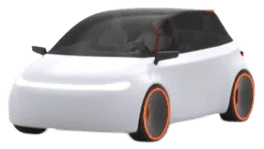
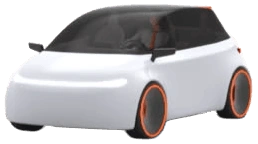
Transporte vira aba do menu de baixo; busca de marca na FIPE; carros recortados de novo
- A tela de transporte agora é uma página como Início, Gastos e Contas (fundo personalizado, mesmo cabeçalho)
- Busca de marca por nome com apelidos (GM, VW) e marcas mais comuns: Chevrolet aparece
- Carros com recorte limpo e tamanho contido (sem esticar a imagem)

diff --git a/src/telas/transporte.jsx b/src/telas/transporte.jsx
@@ -1,8 +1,6 @@
-// Parte do app carregada sob demanda: "Meu transporte" (abre ao tocar em Transporte, em Gastos).
+// Parte do app carregada sob demanda: aba "Transporte" do modo Pessoal (também abre ao tocar em Transporte, em Gastos).
 import React, { useEffect, useMemo, useRef, useState } from "react";
-import { createPortal } from "react-dom";
-import { I, Sheet, Field, Seg, Toggle, Money, brl, brlReal, num, soNumero, fmtNum, uid, todayISO, MES_LONGO, pad, dm, relativo, vibrar, Ilustra, lerArquivo, servidorAvisos, useCamada, ConfirmButton } from "../App.jsx";
-import { TetoSheet } from "./pessoal.jsx";
+import { I, Sheet, Field, Seg, Toggle, Money, brl, brlReal, num, soNumero, fmtNum, uid, todayISO, MES_LONGO, pad, dm, relativo, vibrar, Ilustra, lerArquivo, servidorAvisos, ConfirmButton, TopBar } from "../App.jsx";
 import { SUBS, subInfo, subDe, MANUTENCOES, FOTOS, COMBUSTIVEIS, gastosTransporte, estatisticasCombustivel, kmAtual, proximaTrocaOleo, precosCombustivel, etanolOuGasolina, fipe } from "../transporte.js";
 
 /* ---------- ícones ---------- */
@@ -40,18 +38,14 @@ function FotoVeiculo({ v, grande }) {
   const cls = "transp-foto" + (grande ? " grande" : "");
   if (v && v.foto && v.foto.startsWith("data:")) return <img className={cls + " propria"} src={v.foto} alt="Seu veículo" />;
   const f = FOTOS.find(x => x[0] === (v && v.foto)) || (!v || v.tipo === "carro" || !v.tipo ? FOTOS[0] : null);
-  if (f) return <Ilustra n={f[2]} className={cls} alt={f[1]} />;
+  if (f) return <Ilustra n={f[2]} className={cls + " f-" + f[0]} alt={f[1]} />;
   return <span className={cls + " emoji"} aria-hidden="true">{EMOJI[v.tipo] || "🚗"}</span>;
 }
 
-export function TransportePage({ db, act, perfil, onClose }) {
+export function TransporteTab({ db, act, tema, perfil }) {
   const v = (db.pessoal && db.pessoal.veiculo) || null;
   const [off, setOff] = useState(0);
   const [filtro, setFiltro] = useState(null);
-  const [folha, setFolha] = useState(null); // { tipo: "gasto" | "veiculo" | "teto", ... }
-  const folhaRef = useRef(folha); folhaRef.current = folha;
-  // voltar do Android: fecha a janela de dentro; sem janela, fecha a tela
-  useCamada(() => { if (folhaRef.current) { setFolha(null); return false; } onClose(); }, { escurece: false });
   const hoje = todayISO();
   const mes = mesDe(off), g = useMemo(() => gastosTransporte(db, mes.chave), [db, mes.chave]);
   const ant = useMemo(() => gastosTransporte(db, mesDe(off - 1).chave), [db, off]);
@@ -84,16 +78,13 @@ export function TransportePage({ db, act, perfil, onClose }) {
   const lista = g.itens.filter(i => !filtro || i.sub === filtro);
   const delta = ant.total > 0 ? (g.total - ant.total) / ant.total : null;
   const nome = (v && v.nome) || (v && v.fipe && v.fipe.modelo) || (v && v.tipo === "nenhum" ? "Apps e transporte público" : "Seu veículo");
-  const salvar = l => { act.salvarLanc(l); setFolha(null); };
 
-  return createPortal(
-    <div className="transp" role="dialog" aria-modal="true" aria-label="Meu transporte">
-      <div className="transp-in">
-        <header className="transp-topo">
-          <button className="icon-btn" onClick={onClose} aria-label="Voltar"><I.chevL /></button>
-          <b>Meu transporte</b>
-          <button className="icon-btn" onClick={() => setFolha({ tipo: "veiculo" })} aria-label="Editar o veículo"><I.pencil /></button>
-        </header>
+  return (
+    <div className="page transp">
+      <TopBar eyebrow={nome} title="Transporte" act={act} tema={tema}
+        extra={<button className="icon-btn" onClick={() => act.abrirVeiculo()} aria-label="Editar o veículo"><I.pencil /></button>} />
+      <div className="cols">
+        <div className="col">
 
         <section className="transp-hero">
           <div className="transp-palco"><i className="transp-luz" aria-hidden="true" /><FotoVeiculo v={v} grande /><i className="transp-chao" aria-hidden="true" /></div>
@@ -104,7 +95,7 @@ export function TransportePage({ db, act, perfil, onClose }) {
             {km && <span>{km.toLocaleString("pt-BR")} km</span>}
             {v && v.fipe && v.fipe.valor && <span>FIPE {v.fipe.valor}</span>}
           </div>
-          {!v && <button className="btn ghost transp-escolher" onClick={() => setFolha({ tipo: "veiculo" })}><I.car /> Escolher o meu veículo</button>}
+          {!v && <button className="btn ghost transp-escolher" onClick={() => act.abrirVeiculo()}><I.car /> Escolher o meu veículo</button>}
         </section>
 
         <section className="transp-card transp-mes">
@@ -126,9 +117,9 @@ export function TransportePage({ db, act, perfil, onClose }) {
         </section>
 
         <div className="transp-acoes">
-          {temCarro && <button onClick={() => setFolha({ tipo: "gasto", sub: "combustivel" })}><span className="ic" style={{ "--c": subInfo("combustivel").cor }}><Ic.combustivel /></span>Abastecer</button>}
-          {temCarro && <button onClick={() => setFolha({ tipo: "gasto", sub: "manutencao" })}><span className="ic" style={{ "--c": subInfo("manutencao").cor }}><Ic.manutencao /></span>Manutenção</button>}
-          <button onClick={() => setFolha({ tipo: "gasto", sub: temCarro ? "estacionamento" : "app" })}><span className="ic" style={{ "--c": "var(--mode)" }}><I.plus /></span>Outro gasto</button>
+          {temCarro && <button onClick={() => act.abrirGastoTransp({ sub: "combustivel" })}><span className="ic" style={{ "--c": subInfo("combustivel").cor }}><Ic.combustivel /></span>Abastecer</button>}
+          {temCarro && <button onClick={() => act.abrirGastoTransp({ sub: "manutencao" })}><span className="ic" style={{ "--c": subInfo("manutencao").cor }}><Ic.manutencao /></span>Manutenção</button>}
+          <button onClick={() => act.abrirGastoTransp({ sub: temCarro ? "estacionamento" : "app" })}><span className="ic" style={{ "--c": "var(--mode)" }}><I.plus /></span>Outro gasto</button>
         </div>
 
         {subsMes.length > 0 && (
@@ -142,6 +133,8 @@ export function TransportePage({ db, act, perfil, onClose }) {
           </section>
         )}
 
+        </div>
+        <div className="col">
         {temCarro && (
           <section className="transp-card">
             <div className="transp-card-cab"><span className="ic" style={{ "--c": subInfo("combustivel").cor }}><Ic.combustivel /></span><h3>Combustível</h3></div>
@@ -177,7 +170,7 @@ export function TransportePage({ db, act, perfil, onClose }) {
               </div>
             ) : <p className="hint">Anote a última troca de óleo (em Manutenção) e eu aviso quando chegar a próxima.</p>}
             {manut.slice(0, 4).map(l => (
-              <button key={l.id} className="transp-item" onClick={() => setFolha({ tipo: "gasto", inicial: l })}>
+              <button key={l.id} className="transp-item" onClick={() => act.abrirGastoTransp({ inicial: l })}>
                 <span className="ic" style={{ "--c": subInfo(subDe(l)).cor }}><IconeSub id={subDe(l)} /></span>
                 <span className="mid"><b>{l.desc || subInfo(subDe(l)).nome}</b><small>{relativo(l.data)}{l.km ? ` · ${l.km.toLocaleString("pt-BR")} km` : ""}</small></span>
                 <span className="amt">−<Money v={l.valor} /></span>
@@ -203,26 +196,22 @@ export function TransportePage({ db, act, perfil, onClose }) {
           <div className="transp-card-cab"><h3>{filtro ? subInfo(filtro).nome : "Gastos do mês"}</h3>{filtro && <button className="link" onClick={() => setFiltro(null)}>Ver todos</button>}</div>
           {lista.length === 0 && <div className="empty">{filtro ? "Nada nesta categoria no mês." : "Nenhum gasto com transporte neste mês."}</div>}
           {lista.map(l => (
-            <button key={l.id} className="transp-item" disabled={l.conta} onClick={() => !l.conta && setFolha({ tipo: "gasto", inicial: l })}>
+            <button key={l.id} className="transp-item" disabled={l.conta} onClick={() => !l.conta && act.abrirGastoTransp({ inicial: l })}>
               <span className="ic" style={{ "--c": subInfo(l.sub).cor }}><IconeSub id={l.sub} /></span>
               <span className="mid"><b>{l.desc || subInfo(l.sub).nome}</b><small>{subInfo(l.sub).nome} · {relativo(l.data).toLowerCase()}{l.litros ? ` · ${fmtNum(l.litros)} L` : ""}{l.conta ? " · conta fixa" : ""}</small></span>
               <span className="amt">−<Money v={l.valor} /></span>
             </button>
           ))}
-          <button className="link transp-teto" onClick={() => setFolha({ tipo: "teto" })}><I.gauge /> Teto de gastos com transporte</button>
+          <button className="link transp-teto" onClick={() => act.abrirTeto("transporte")}><I.gauge /> Teto de gastos com transporte</button>
         </section>
+        </div>
       </div>
-
-      {folha && folha.tipo === "gasto" && <GastoTransporteSheet sub0={folha.sub} inicial={folha.inicial} veiculo={v} precos={ref && ref.p} onSave={salvar} onDelete={id => { act.apagarLanc(id); setFolha(null); }} onClose={() => setFolha(null)} />}
-      {folha && folha.tipo === "veiculo" && <VeiculoSheet veiculo={v} km={km} onSave={nv => { act.salvarVeiculo(nv); setFolha(null); }} onClose={() => setFolha(null)} />}
-      {folha && folha.tipo === "teto" && <TetoSheet db={db} cat="transporte" act={{ ...act, salvarTeto: (c, valor) => { act.salvarTeto(c, valor); setFolha(null); } }} onClose={() => setFolha(null)} />}
-    </div>,
-    document.body
+    </div>
   );
 }
 
 /* ---------- Abastecer, manutenção e outros gastos ---------- */
-function GastoTransporteSheet({ sub0, inicial, veiculo, precos, onSave, onDelete, onClose }) {
+export function GastoTransporteSheet({ sub0, inicial, veiculo, precos, onSave, onDelete, onClose }) {
   const [sub, setSub] = useState(inicial ? subDe(inicial) : sub0 || "combustivel");
   const [valor, setValor] = useState(inicial ? fmtNum(inicial.valor) : "");
   const [litros, setLitros] = useState(inicial && inicial.litros ? fmtNum(inicial.litros) : "");
@@ -292,7 +281,8 @@ async function fotoDoCarro(file) {
   c.getContext("2d").drawImage(img, 0, 0, c.width, c.height);
   return c.toDataURL("image/jpeg", .82);
 }
-function VeiculoSheet({ veiculo, km: km0, onSave, onClose }) {
+export function VeiculoSheet({ veiculo, db, onSave, onClose }) {
+  const km0 = kmAtual(db, veiculo);
   const v0 = veiculo || {};
   const [tipo, setTipo] = useState(v0.tipo || "carro");
   const [foto, setFoto] = useState(v0.foto || "sedan");
@@ -348,26 +338,43 @@ function VeiculoSheet({ veiculo, km: km0, onSave, onClose }) {
 }
 
 // Tabela FIPE (opcional): marca -> modelo -> ano -> valor
+// nomes como as pessoas falam ("Chevrolet", e não "GM - Chevrolet"), apelidos e as marcas mais comuns primeiro
+const nomeMarca = n => n.replace(/^GM - Chevrolet$/i, "Chevrolet").replace(/^VW - VolksWagen$/i, "Volkswagen").replace(/^(GM|VW) - /i, "");
+const simples = s => String(s || "").toLowerCase().normalize("NFD").replace(/[̀-ͯ]/g, "").trim();
+const APELIDOS_MARCA = { gm: "chevrolet", chevy: "chevrolet", vw: "volkswagen", volks: "volkswagen", wolks: "volkswagen", mercedes: "mercedes", citroen: "citroen", chery: "chery" };
+const POPULARES = ["chevrolet", "fiat", "volkswagen", "ford", "toyota", "hyundai", "renault", "honda", "jeep", "nissan", "peugeot", "citroen", "byd", "caoa chery", "yamaha", "kawasaki", "suzuki", "bmw"];
 function BuscaFipe({ tipo, valor, onEscolher }) {
+  const [qMarca, setQMarca] = useState(""), [marcaNome, setMarcaNome] = useState("");
   const [aberto, setAberto] = useState(false);
   const [marcas, setMarcas] = useState([]), [modelos, setModelos] = useState([]), [anos, setAnos] = useState([]);
   const [marca, setMarca] = useState(""), [modelo, setModelo] = useState(""), [busca, setBusca] = useState("");
   const [st, setSt] = useState("");
   useEffect(() => { if (!aberto || marcas.length) return; setSt("carregando"); fipe.marcas(tipo).then(m => { setMarcas(m); setSt(""); }).catch(() => setSt("erro")); }, [aberto, tipo]);
-  const escolherMarca = id => { setMarca(id); setModelo(""); setAnos([]); setModelos([]); if (!id) return; setSt("carregando"); fipe.modelos(tipo, id).then(m => { setModelos(m); setSt(""); }).catch(() => setSt("erro")); };
+  const escolherMarca = (id, nome) => { setMarca(id); setMarcaNome(nome || ""); setBusca(""); setModelo(""); setAnos([]); setModelos([]); if (!id) return; setSt("carregando"); fipe.modelos(tipo, id).then(m => { setModelos(m); setSt(""); }).catch(() => setSt("erro")); };
   const escolherModelo = id => { setModelo(id); setAnos([]); if (!id) return; setSt("carregando"); fipe.anos(tipo, marca, id).then(a => { setAnos(a); setSt(""); }).catch(() => setSt("erro")); };
   const escolherAno = id => { if (!id) return; setSt("carregando"); fipe.valor(tipo, marca, modelo, id).then(r => { onEscolher({ marca: r.Marca, modelo: r.Modelo, ano: r.AnoModelo === 32000 ? "Zero km" : r.AnoModelo, combustivel: r.Combustivel, valor: r.Valor, mes: r.MesReferencia, codigo: r.CodigoFipe }); setSt(""); setAberto(false); vibrar("ok"); }).catch(() => setSt("erro")); };
+  const q = simples(qMarca), qAlvo = APELIDOS_MARCA[q] || q;
+  const listaMarcas = q
+    ? marcas.filter(m => simples(nomeMarca(m.nome)).includes(qAlvo) || simples(m.nome).includes(q)).slice(0, 14)
+    : POPULARES.map(p => marcas.find(m => simples(nomeMarca(m.nome)) === p)).filter(Boolean).slice(0, 12);
   const filtrados = busca.trim() ? modelos.filter(m => m.nome.toLowerCase().includes(busca.trim().toLowerCase())) : modelos;
   if (!aberto) return (
     <div className="transp-fipe">
-      {valor ? <div><small>Tabela FIPE · {valor.mes}</small><b>{valor.valor}</b><span>{valor.marca} {valor.modelo} · {valor.ano}</span></div> : <span className="hint" style={{ padding: 0 }}>Quanto vale o seu {tipo === "motos" ? "moto" : "carro"}? Puxe da Tabela FIPE (opcional).</span>}
+      {valor ? <div><small>Tabela FIPE · {valor.mes}</small><b>{valor.valor}</b><span>{nomeMarca(valor.marca || "")} {valor.modelo} · {valor.ano}</span></div> : <span className="hint" style={{ padding: 0 }}>Quanto vale o seu {tipo === "motos" ? "moto" : "carro"}? Puxe da Tabela FIPE (opcional).</span>}
       <button type="button" className="pill-btn" onClick={() => setAberto(true)}>{valor ? "Trocar" : "Buscar na FIPE"}</button>
       {valor && <button type="button" className="link" onClick={() => onEscolher(null)}>Tirar</button>}
     </div>
   );
   return (
     <div className="transp-fipe aberto">
-      <select value={marca} onChange={e => escolherMarca(e.target.value)} aria-label="Marca"><option value="">Marca…</option>{marcas.map(m => <option key={m.codigo} value={m.codigo}>{m.nome}</option>)}</select>
+      {!marca ? <>
+        <input value={qMarca} onChange={e => setQMarca(e.target.value)} placeholder="Marca (ex.: Chevrolet, Fiat, VW)" aria-label="Buscar a marca" autoComplete="off" />
+        <div className="fipe-marcas">
+          {!q && marcas.length > 0 && <small>Mais comuns</small>}
+          {listaMarcas.map(m => <button key={m.codigo} type="button" onClick={() => escolherMarca(m.codigo, nomeMarca(m.nome))}>{nomeMarca(m.nome)}</button>)}
+          {q && marcas.length > 0 && !listaMarcas.length && <span className="hint" style={{ padding: 0 }}>Nenhuma marca com esse nome.</span>}
+        </div>
+      </> : <div className="fipe-escolhida"><b>{marcaNome}</b><button type="button" className="link" onClick={() => escolherMarca("")}>Trocar marca</button></div>}
       {marca && <input value={busca} onChange={e => setBusca(e.target.value)} placeholder="Filtrar o modelo (ex.: onix 1.0)" aria-label="Filtrar modelo" />}
       {marca && <select value={modelo} onChange={e => escolherModelo(e.target.value)} aria-label="Modelo"><option value="">{modelos.length ? `Modelo… (${filtrados.length})` : "Carregando…"}</option>{filtrados.slice(0, 400).map(m => <option key={m.codigo} value={m.codigo}>{m.nome}</option>)}</select>}
       {modelo && <select defaultValue="" onChange={e => escolherAno(e.target.value)} aria-label="Ano"><option value="">{anos.length ? "Ano…" : "Carregando…"}</option>{anos.map(a => <option key={a.codigo} value={a.codigo}>{a.nome.replace(/^32000/, "Zero km")}</option>)}</select>}

diff --git a/src/App.jsx b/src/App.jsx
@@ -15,6 +15,7 @@ import { NUVEM, ENDERECO_APP, cliente, useNuvem, contaDaNuvem, enviarPerfil, sai
 import { lerBoleto } from "./boleto.js";
 import { avaliarConquistas, proximaConquista, nivelDe, TRILHAS } from "./conquistas.js";
 import { AVATARES, ehAvatarPronto } from "./avatares.js";
+import { precosGuardados } from "./transporte.js";
 import { createPortal, flushSync } from "react-dom";
 
 // Caminho base do app (no GitHub Pages é /nome-do-repositorio/)
@@ -159,7 +160,7 @@ const comTransicao = (fn, tipo = "frente") => {
   } catch (e) {}
   fn();
 };
-const ORDEM_ABAS = ["home", "agenda", "pac", "fin", "p-home", "p-gastos", "p-contas"];
+const ORDEM_ABAS = ["home", "agenda", "pac", "fin", "p-home", "p-gastos", "p-contas", "p-transp"];
 const brlReal = v => (Number(v) || 0).toLocaleString("pt-BR", { style: "currency", currency: "BRL" });
 const brl = v => ESCONDER ? "R$ •••" : brlReal(v);
 const num = v => { let s = String(v).trim(); if (s.includes(",")) s = s.replace(/\./g, "").replace(",", "."); const n = parseFloat(s); return isNaN(n) ? 0 : n; };
@@ -1462,6 +1463,7 @@ const I = {
   bill: () => <Svg><rect x="4" y="3" width="16" height="18" rx="3"/><path d="M8 8h8M8 12h8M8 16h4"/></Svg>,
   cart: () => <Svg><path d="M3 4h2.5l2.2 10.5h10.6L20.5 7H7"/><circle cx="9.5" cy="19" r="1.5"/><circle cx="17" cy="19" r="1.5"/></Svg>,
   car: () => <Svg><path d="M4 16v-4l2-5h12l2 5v4M4 16h16M4 16v2.5M20 16v2.5"/><circle cx="7.5" cy="13.5" r=".8"/><circle cx="16.5" cy="13.5" r=".8"/></Svg>,
+  carOn: () => <Svg><path fill="currentColor" stroke="none" fillRule="evenodd" d="M6.9 5.5h10.2a1.5 1.5 0 0 1 1.4.94l1.9 4.76c.4.36.6.86.6 1.4V17a1 1 0 0 1-1 1h-.5v1.2a1 1 0 0 1-2 0V18H6.5v1.2a1 1 0 0 1-2 0V18H4a1 1 0 0 1-1-1v-4.4c0-.54.2-1.04.6-1.4L5.5 6.44a1.5 1.5 0 0 1 1.4-.94zM6.2 10.5h11.6l-1.3-3.2H7.5zM7.5 15.2a1.3 1.3 0 1 0 0-2.6 1.3 1.3 0 0 0 0 2.6zm9 0a1.3 1.3 0 1 0 0-2.6 1.3 1.3 0 0 0 0 2.6z"/></Svg>,
   food: () => <Svg><path d="M7 3v8M5 3v5a2 2 0 0 0 4 0V3M7 11v10M16 21V3c-2 1-3.5 3.5-3.5 7h3.5"/></Svg>,
   heart: () => <Svg><path d="M12 20s-7.5-4.5-7.5-10A4.3 4.3 0 0 1 12 7.5 4.3 4.3 0 0 1 19.5 10C19.5 15.5 12 20 12 20z"/></Svg>,
   star: () => <Svg><path d="M12 3.5l2.6 5.4 5.9.8-4.3 4.1 1 5.8L12 16.9l-5.2 2.7 1-5.8-4.3-4.1 5.9-.8z"/></Svg>,
@@ -3254,7 +3256,9 @@ const LancSheet = lazy(() => import("./telas/pessoal.jsx").then(m => ({ default:
 const ContaSheet = lazy(() => import("./telas/pessoal.jsx").then(m => ({ default: m.ContaSheet })));
 const CaixinhaSheet = lazy(() => import("./telas/dinheiro.jsx").then(m => ({ default: m.CaixinhaSheet })));
 const TetoSheet = lazy(() => import("./telas/pessoal.jsx").then(m => ({ default: m.TetoSheet })));
-const TransportePage = lazy(() => import("./telas/transporte.jsx").then(m => ({ default: m.TransportePage })));
+const TransporteTab = lazy(() => import("./telas/transporte.jsx").then(m => ({ default: m.TransporteTab })));
+const GastoTransporteSheet = lazy(() => import("./telas/transporte.jsx").then(m => ({ default: m.GastoTransporteSheet })));
+const VeiculoSheet = lazy(() => import("./telas/transporte.jsx").then(m => ({ default: m.VeiculoSheet })));
 const BoletoSheet = lazy(() => import("./telas/ferramentas.jsx").then(m => ({ default: m.BoletoSheet })));
 const ImportarSheet = lazy(() => import("./telas/ferramentas.jsx").then(m => ({ default: m.ImportarSheet })));
 const ParceladoSheet = lazy(() => import("./telas/dinheiro.jsx").then(m => ({ default: m.ParceladoSheet })));
@@ -3601,7 +3605,6 @@ function Painel({ conta, novo, pronto, tema, onSair, onAtualizar, onPerfilNuvem 
   // Conquistas: calculadas a partir dos dados; as novas ganham comemoração (uma de cada vez)
   const conquistas = useMemo(() => avaliarConquistas(db, ajudaConquistas(), { perfil, usaPessoal, instalado: appInstalado(), push, nuvem: !!conta.uid, av }), [db, push, perfil, usaPessoal, conta.uid, av.nomes]);
   const [festa, setFesta] = useState([]);
-  const [transp, setTransp] = useState(false); // tela "Meu transporte"
   // Barra de cima que aparece quando a página rola
   const [rolou, setRolou] = useState(false);
   // A barra de baixo fica sempre parada no lugar; só a de cima reage à rolagem
@@ -3867,8 +3870,11 @@ function Painel({ conta, novo, pronto, tema, onSair, onAtualizar, onPerfilNuvem 
     toast: m => notify(m),
     conquistas,
     abrirClima: () => setSheet({ type: "clima" }),
-    abrirTransporte: () => { if (sheet) close(); setTransp(true); },
-    salvarVeiculo: v => { setP(P => ({ ...P, veiculo: v })); vibrar("ok"); notify(v.tipo === "nenhum" ? "Pronto: sem veículo, foco nos apps e no transporte público" : `${v.nome || "Veículo"} salvo`); },
+    // Transporte é uma aba do modo Pessoal; os painéis dela abrem como os outros
+    abrirTransporte: () => { if (sheet) close(); if (modo !== "pessoal") { setModoSt("pessoal"); gravar(K.modo(conta.email), "pessoal"); } setTab("p-transp"); rolarTopo(); },
+    abrirGastoTransp: ({ sub, inicial } = {}) => setSheet({ type: "transp-gasto", sub, inicial, n: Date.now() }),
+    abrirVeiculo: () => setSheet({ type: "veiculo" }),
+    salvarVeiculo: v => { setP(P => ({ ...P, veiculo: v })); close(); vibrar("ok"); notify(v.tipo === "nenhum" ? "Pronto: sem veículo, foco nos apps e no transporte público" : `${v.nome || "Veículo"} salvo`); },
     abrirChat: () => { if (sheet) close(); vozApi.current.chat && vozApi.current.chat(); },
     recarregarClima: () => carregarClima(true),
     setTab: t => { if (t === tab) return rolarTopo(); comTransicao(() => { setTab(t); rolarTopo(); }, ORDEM_ABAS.indexOf(t) < ORDEM_ABAS.indexOf(tab) ? "tras" : "frente"); },
@@ -4104,7 +4110,7 @@ function Painel({ conta, novo, pronto, tema, onSair, onAtualizar, onPerfilNuvem 
   const modoEf = usaPessoal ? modo : "consultorio";
   const tabEf = !usaPessoal && tab.startsWith("p-") ? "home" : tab;
   const abas = modoEf === "pessoal"
-    ? [{ id: "p-home", l: "Início", ic: <I.home />, on: <I.homeOn />, n: 0 }, { id: "p-gastos", l: "Gastos", ic: <I.chart />, on: <I.chartOn />, n: 0 }, { id: "p-contas", l: "Contas", ic: <I.bill />, on: <I.billOn />, n: contasUrg }]
+    ? [{ id: "p-home", l: "Início", ic: <I.home />, on: <I.homeOn />, n: 0 }, { id: "p-gastos", l: "Gastos", ic: <I.chart />, on: <I.chartOn />, n: 0 }, { id: "p-contas", l: "Contas", ic: <I.bill />, on: <I.billOn />, n: contasUrg }, { id: "p-transp", l: "Transporte", ic: <I.car />, on: <I.carOn />, n: 0 }]
     : [{ id: "home", l: "Início", ic: <I.home />, on: <I.homeOn />, n: atrasados }, { id: "agenda", l: "Agenda", ic: <I.cal />, on: <I.calOn />, n: 0 }, { id: "pac", l: TERMO.P, ic: <I.users />, on: <I.usersOn />, n: 0 }, { id: "fin", l: "Finanças", ic: <I.wallet />, on: <I.walletOn />, n: pendentes }];
   const lancSel = sheet && sheet.type === "lanc" && sheet.id ? db.pessoal.lanc.find(l => l.id === sheet.id) : null;
   const contaSel = sheet && sheet.type === "conta" && sheet.id ? db.pessoal.contas.find(c => c.id === sheet.id) : null;
@@ -4123,6 +4129,8 @@ function Painel({ conta, novo, pronto, tema, onSair, onAtualizar, onPerfilNuvem 
       {sheet && sheet.type === "registros" && <Suspense fallback={null}><RegistrosSheet db={db} onClose={close} act={act} /></Suspense>}
       {sheet && sheet.type === "espera" && <EsperaSheet key={sheet.id || "nova"} inicial={sheet.id ? db.espera.find(e => e.id === sheet.id) : null} onSave={act.salvarEspera} onDelete={act.tirarEspera} onClose={close} />}
       {sheet && sheet.type === "lanc" && <Suspense fallback={null}><LancSheet key={sheet.id || sheet.tipo + (sheet.n || "")} inicial={lancSel} pre={sheet.pre} tipo={sheet.tipo || "saida"} viagem={db.pessoal.viagem} onLogo={act.salvarLogo} onVoz={act.falarGasto} onFoto={servidorAvisos() ? act.lerComprovante : null} onSave={act.salvarLanc} onDelete={act.apagarLanc} onClose={close} /></Suspense>}
+      {sheet && sheet.type === "transp-gasto" && <Suspense fallback={null}><GastoTransporteSheet key={sheet.n} sub0={sheet.sub} inicial={sheet.inicial} veiculo={db.pessoal.veiculo || null} precos={precosGuardados()} onSave={act.salvarLanc} onDelete={act.apagarLanc} onClose={close} /></Suspense>}
+      {sheet && sheet.type === "veiculo" && <Suspense fallback={null}><VeiculoSheet veiculo={db.pessoal.veiculo || null} db={db} onSave={act.salvarVeiculo} onClose={close} /></Suspense>}
       {sheet && sheet.type === "clima" && <ClimaSheet clima={clima} cidade={perfil.cidade} act={act} onClose={close} />}
       {sheet && sheet.type === "teto" && <Suspense fallback={null}><TetoSheet key={sheet.cat || "teto"} db={db} cat={sheet.cat} act={act} onClose={close} /></Suspense>}
       {sheet && sheet.type === "boleto" && <Suspense fallback={null}><BoletoSheet key={sheet.n || "boleto"} texto={sheet.texto} act={act} onClose={close} /></Suspense>}
@@ -4186,6 +4194,7 @@ function Painel({ conta, novo, pronto, tema, onSair, onAtualizar, onPerfilNuvem 
         {tabEf === "p-home" && <Suspense fallback={null}><PessoalHome db={db} conta={conta} now={now} act={act} tema={tema} /></Suspense>}
         {tabEf === "p-gastos" && <Suspense fallback={null}><GastosTab db={db} act={act} tema={tema} /></Suspense>}
         {tabEf === "p-contas" && <Suspense fallback={null}><ContasTab db={db} act={act} tema={tema} /></Suspense>}
+        {tabEf === "p-transp" && <Suspense fallback={null}><TransporteTab db={db} act={act} tema={tema} perfil={perfil} /></Suspense>}
       </main>
 
       <div className={"topo-fixo" + (rolou && !sheet ? " on" : "")} aria-hidden={!(rolou && !sheet)} inert={rolou && !sheet ? undefined : ""}>
@@ -4218,7 +4227,6 @@ function Painel({ conta, novo, pronto, tema, onSair, onAtualizar, onPerfilNuvem 
 
       {paineis}
       {foco && <Agora db={db} conta={conta} now={now} onClose={() => setFoco(false)} act={act} />}
-      {transp && usaPessoal && <Suspense fallback={null}><TransportePage db={db} act={act} perfil={perfil} onClose={() => setTransp(false)} /></Suspense>}
 
       {toast && (
         <div className={"toast" + (toast.undo ? "" : " solo")} role="status">

diff --git a/src/styles.css b/src/styles.css
@@ -1661,20 +1661,18 @@ body::after { content: ""; position: fixed; left: 0; right: 0; top: 0; height: e
 .topo-fixo .icon-btn.redondo svg { color: #fff; stroke: currentColor; }
 
 /* ---------- Meu transporte ---------- */
-.transp { position: fixed; inset: 0; z-index: 50; overflow-y: auto; overscroll-behavior: contain; background-color: var(--bg); background-image: radial-gradient(120% 50% at 50% 0%, color-mix(in srgb, var(--mode) 16%, var(--bg)), var(--bg) 70%); color: var(--fg); animation: chat-entra .4s cubic-bezier(.16, 1, .3, 1); }
-.transp .scrim { z-index: 60; }
-.transp-in { max-width: 560px; margin: 0 auto; display: flex; flex-direction: column; gap: 14px; padding: 0 max(16px, env(safe-area-inset-right, 0px)) calc(32px + env(safe-area-inset-bottom, 0px)) max(16px, env(safe-area-inset-left, 0px)); }
-.transp-topo { position: sticky; top: 0; z-index: 3; display: grid; grid-template-columns: 44px 1fr 44px; align-items: center; gap: 8px; margin: 0 -16px; padding: calc(10px + env(safe-area-inset-top, 0px)) 16px 10px; background: color-mix(in srgb, var(--bg) 86%, transparent); -webkit-backdrop-filter: blur(16px); backdrop-filter: blur(16px); }
-.transp-topo b { text-align: center; font-family: var(--f-display); font-weight: 600; font-size: 17px; }
 .transp-hero { display: flex; flex-direction: column; align-items: center; text-align: center; gap: 6px; }
-.transp-palco { position: relative; width: 100%; height: 190px; display: grid; place-items: center; }
-.transp-palco.mini { height: 140px; }
+.transp-palco { position: relative; width: 100%; height: 150px; display: grid; place-items: center; }
+.transp-palco.mini { height: 120px; }
 .transp-luz { position: absolute; width: 70%; height: 80%; border-radius: 50%; background: radial-gradient(circle, color-mix(in srgb, var(--mode) 40%, transparent), transparent 65%); filter: blur(10px); }
 .transp-foto { position: relative; z-index: 1; display: block; max-width: 86%; max-height: 100%; object-fit: contain; filter: drop-shadow(0 18px 24px rgba(0, 0, 0, .35)); animation: carro-anda 6s ease-in-out infinite; }
-.transp-foto.grande { width: 330px; }
-.transp-palco.mini .transp-foto.grande { width: 240px; }
+.transp-foto.grande { width: min(250px, 72%); }
+/* o compacto veio de uma foto pequena: nunca maior que o tamanho original (fica nítido) */
+.transp-foto.grande.f-compacto { width: min(176px, 60%); }
+.transp-palco.mini .transp-foto.grande { width: min(210px, 64%); }
+.transp-palco.mini .transp-foto.grande.f-compacto { width: min(160px, 56%); }
 .transp-foto.propria { width: auto; max-width: 86%; height: 100%; border-radius: 26px; object-fit: cover; filter: none; box-shadow: 0 18px 40px rgba(0, 0, 0, .35); animation: none; }
-.transp-foto.emoji { font-size: 104px; line-height: 1; width: auto; filter: drop-shadow(0 14px 18px rgba(0, 0, 0, .3)); }
+.transp-foto.emoji { font-size: 88px; line-height: 1; width: auto; filter: drop-shadow(0 14px 18px rgba(0, 0, 0, .3)); }
 .transp-chao { position: absolute; bottom: 8px; width: 58%; height: 18px; border-radius: 50%; background: radial-gradient(closest-side, rgba(0, 0, 0, .38), transparent); }
 @keyframes carro-anda { 50% { transform: translateY(-5px); } }
 .transp-hero h2 { margin: 0; font-family: var(--f-display); font-weight: 700; font-size: 24px; letter-spacing: -.02em; }
@@ -1763,5 +1761,13 @@ body::after { content: ""; position: fixed; left: 0; right: 0; top: 0; height: e
 .transp-fipe.aberto { flex-direction: column; align-items: stretch; }
 .transp-fipe select, .transp-fipe input { height: 46px; border-radius: 14px; border: 1px solid var(--line); background: var(--surface); color: var(--fg); font: inherit; font-size: 16px; padding: 0 12px; }
 @media (prefers-reduced-motion: reduce) { .transp-foto, .transp { animation: none !important; } }
-/* a tela de transporte fica fora da área principal: leva a cor do modo Pessoal junto */
-.transp { --mode: #1FB879; --mode-ink: #04261A; --mode-soft: var(--mint-soft); --mode-text: var(--mint); }
+
+/* Transporte como aba: os cartões seguem o vidro e o fundo do app */
+.transp .col { gap: 14px; }
+.transp-hero { padding: 4px 0 2px; }
+.fipe-marcas { display: flex; flex-wrap: wrap; gap: 6px; align-items: center; }
+.fipe-marcas small { width: 100%; color: var(--muted); font-size: 12px; font-weight: 800; text-transform: uppercase; letter-spacing: .05em; }
+.fipe-marcas button { padding: 8px 12px; border-radius: 999px; background: var(--surface); border: 1px solid var(--line); color: var(--fg); font-weight: 700; font-size: 14px; }
+.fipe-marcas button:active { transform: scale(.96); }
+.fipe-escolhida { display: flex; align-items: center; justify-content: space-between; gap: 10px; padding: 4px 2px; }
+.fipe-escolhida b { font-size: 16px; }

diff --git a/src/telas/pessoal.jsx b/src/telas/pessoal.jsx
@@ -182,10 +182,7 @@ function PessoalHome({ db, conta, now, act, tema }) {
         <div className="col">
           <Talk falas={falas} />
           <ProximaConquista act={act} trilhas={["dinheiro", "app"]} />
-          <div className="small-acts">
-            {servidorAvisos() && <button className="chip-btn" onClick={act.abrirChat}><I.chat />Perguntar à Bolinha</button>}
-            <button className="chip-btn" onClick={act.abrirTransporte}><I.car />Meu transporte</button>
-          </div>
+          {servidorAvisos() && <div className="small-acts"><button className="chip-btn" onClick={act.abrirChat}><I.chat />Perguntar à Bolinha</button></div>}
           <section className="bal">
             <div className="bal-top">
               <span className="lab">{rotulo} <button className="eye" onClick={act.toggleOculto} aria-label={ESCONDER ? "Mostrar valores" : "Esconder valores"}>{ESCONDER ? <I.eyeOff /> : <I.eye />}</button></span>

diff --git a/src/transporte.js b/src/transporte.js
@@ -166,6 +166,10 @@ export async function precosCombustivel(servidor, uf, cidade, forcar) {
     return out;
   } catch (e) { if (salvo) return { ...salvo, velho: true }; throw e; }
 }
+// O último preço buscado (da cidade, ou do estado), para a janela de abastecer comparar sem esperar a internet
+export function precosGuardados() {
+  try { const s = JSON.parse(localStorage.getItem(K_ANP) || "null"); if (!s) return null; return Object.keys(s.cidade || {}).length ? s.cidade : Object.keys(s.estado || {}).length ? s.estado : s.brasil || null; } catch (e) { return null; }
+}
 // Etanol ou gasolina? (regra dos 70%: o etanol rende cerca de 70% da gasolina)
 export function etanolOuGasolina(precos) {
   const g = precos && precos.gasolina, e = precos && precos.etanol;

diff --git a/README.md b/README.md
@@ -137,7 +137,7 @@ Para adicionar um fundo novo: coloque `meu-fundo.jpg` e `meu-fundo-mini.jpg` em 
 - **Clima de verdade** (Open-Meteo): temperatura de agora, sensação, umidade, chuva hora a hora, mínima e máxima. Toque no clima do Início para ver tudo e, se quiser, usar a localização do aparelho (mais preciso que a cidade). Sem internet, mostra a última previsão real com o horário; nunca números inventados.
 - **Conquistas** (Perfil → Conquistas): 24 conquistas em 6 trilhas (rotina, consultório, metas, dinheiro da casa, app e segurança), com nível, cartão da próxima conquista no Início e comemoração com confete. Celebram a rotina, não a quantidade de atendimentos. As regras ficam em `src/conquistas.js`.
 - **Painéis como app nativo:** o voltar do Android fecha o painel aberto (e não o app), a tela de trás recua um pouco, a barra de status escurece junto e segue o tema escolhido no app, e dá para arrastar o painel para baixo de qualquer ponto quando ele está no topo.
-- **Meu transporte** (Gastos → toque em Transporte, ou o atalho no Início do Pessoal): o seu veículo no topo (carro sedã, compacto, foto sua, moto, bike ou "sem veículo"), quanto saiu no mês e nos últimos 6 meses, separado em combustível, apps, ônibus e metrô, manutenção, peças e melhorias, estacionamento e pedágio, IPVA/seguro/multas. **Abastecer** (litros e km) calcula o consumo real e o custo por km; **Manutenção** guarda o histórico e avisa a próxima troca de óleo; calculadora de viagem; **preço médio da semana na sua cidade** (planilha oficial da ANP, lida no aparelho) com "etanol ou gasolina?"; **valor FIPE** do carro (API pública parallelum, grátis). A lógica fica em `src/transporte.js`.
+- **Transporte** (aba própria no menu de baixo do modo Pessoal, com o fundo personalizado como as outras; também abre ao tocar em Transporte, em Gastos): o seu veículo no topo (carro sedã, compacto, foto sua, moto, bike ou "sem veículo"), quanto saiu no mês e nos últimos 6 meses, separado em combustível, apps, ônibus e metrô, manutenção, peças e melhorias, estacionamento e pedágio, IPVA/seguro/multas. **Abastecer** (litros e km) calcula o consumo real e o custo por km; **Manutenção** guarda o histórico e avisa a próxima troca de óleo; calculadora de viagem; **preço médio da semana na sua cidade** (planilha oficial da ANP, lida no aparelho) com "etanol ou gasolina?"; **valor FIPE** do carro (API pública parallelum, grátis). A lógica fica em `src/transporte.js`.
 - **Ilustrações 3D** (`public/ilustras/`): troféu = conquistas e metas, dinheiro = caixinhas, arquivo = organização, cadeados = privacidade, café = rotina leve e dia livre, iPad = o app em qualquer tela.
 
 **Banco de dados na nuvem (Supabase):** depois de rodar `bash conectar-nuvem.sh`, o login é de verdade e os dados ficam sincronizados entre celular e computador (veja abaixo). Sem isso, tudo fica só no aparelho, como antes.
